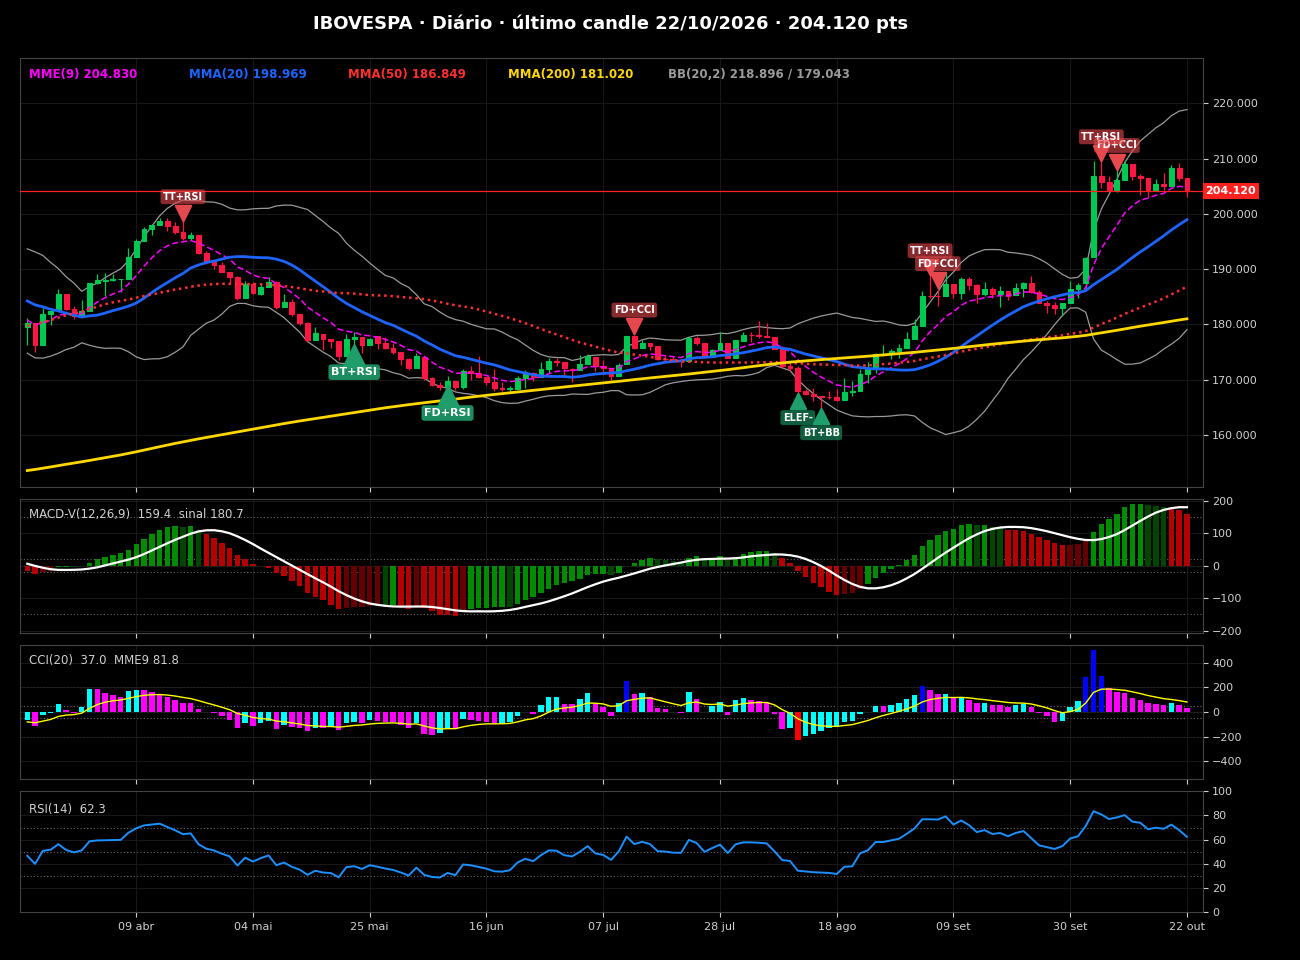
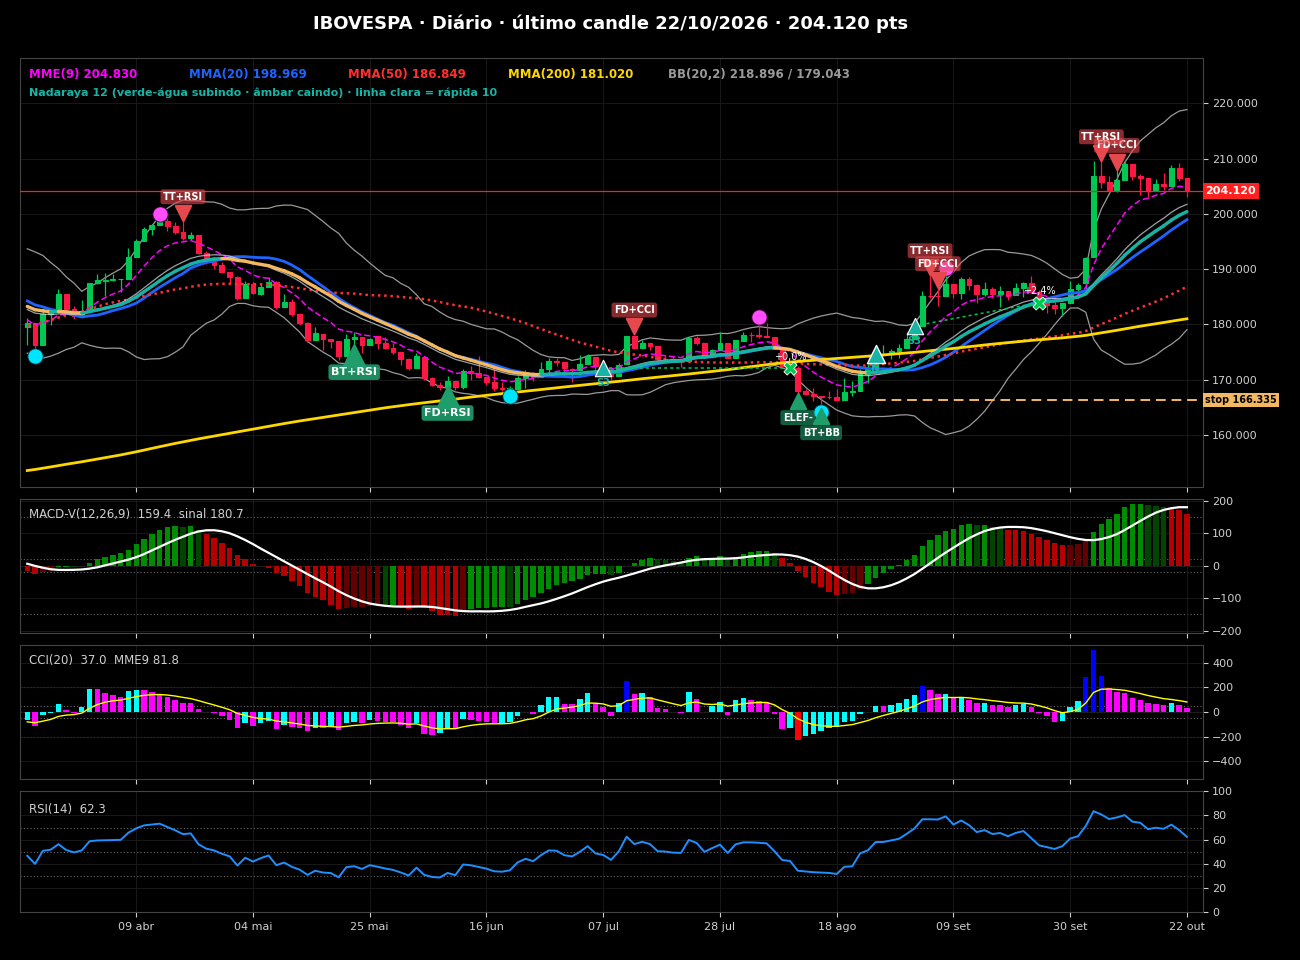
🤖 Auto: Sinal 22/10/2026 19:48

diff --git a/content/diario/2026-10-22.md b/content/diario/2026-10-22.md
@@ -11,6 +11,34 @@ tags: [diario]
 >
 > *Leitura educacional baseada em 26 anos de dados. Não é recomendação de investimento.*
 
+> [!tip] 🎯 Entradas do método — 🧪 em teste ao vivo desde 23/10/2026 (só compra)
+>
+> **Placar ao vivo:** nenhuma operação encerrada desde 23/10/2026. Este é o único resultado sem nenhum ajuste ao histórico.
+>
+> | Regra | Situação | Detalhes | Nota |
+> |---|---|---|---|
+> | [Diário · Nadaraya](tecnico/#diário) | 🟢 **comprado** desde 25/08 a 174.577 *(simulada: começou antes do teste ao vivo)* | stop 166.335 · agora +16,9% em 40 pregões · sai quando a linha rápida do Nadaraya cruzar para baixo · setup BT+BB (moderado) | ✅ passou fora da amostra |
+> | [Semanal · Semáforo N2](tecnico/#semanal) | — sem setup | espera um sinal de fundo | ✅ o ganho vem do setup |
+> | [H4 · Semáforo N2](sinais-topo-fundo/todos-os-sinais#h4) | — sem setup | espera um sinal de fundo | 🧪 em teste |
+> | [Diário · Semáforo N3 após ζ Fundo](tecnico/#diário) | — sem setup | espera um sinal de fundo ou ζ Fundo ≥ 60% | 🧪 em observação |
+>
+> **Últimas operações** (as anteriores ao teste ao vivo são simuladas no histórico)
+>
+> | Regra | Entrada | Saída | Resultado | Motivo |
+> |---|---|---|---|---|
+> | H4 · Semáforo N2 | 01/10/26 14h a 187.243 | 20/10/26 10h a 208.658 | **+11,4%** | saída do método (topo fixo do semáforo nível 3) |
+> | H4 · Semáforo N2 | 21/09/26 14h a 186.753 | 25/09/26 10h a 183.242 | **-1,9%** | stop |
+> | Diário · Semáforo N3 após ζ Fundo | 01/09/26 a 179.723 | 24/09/26 a 183.966 | **+2,4%** | saída do método (topo fixo do semáforo nível 3) |
+> | H4 · Semáforo N2 | 19/08/26 10h a 168.034 | 16/09/26 10h a 185.896 | **+10,6%** | saída do método (topo fixo do semáforo nível 3) |
+> | Diário · Semáforo N3 após ζ Fundo | 07/07/26 a 172.021 | 10/08/26 a 172.021 | **+0,0%** | stop no preço de entrada |
+> | H4 · Semáforo N2 | 12/06/26 14h a 171.134 | 15/06/26 14h a 171.134 | **+0,0%** | stop no preço de entrada |
+> | H4 · Semáforo N2 | 05/05/26 10h a 186.583 | 07/05/26 10h a 186.583 | **+0,0%** | stop no preço de entrada |
+> | H4 · Semáforo N2 | 25/03/26 10h a 185.486 | 23/04/26 10h a 192.517 | **+3,8%** | saída do método (topo fixo do semáforo nível 3) |
+>
+> <small>Atualizado 22/10 19:48. Nota: ✅ passou no teste fora da amostra (walk-forward 2008–2026) · 🧪 em teste ou em observação, sem aviso no Telegram · 🧪 na tabela = operação do teste ao vivo.</small>
+>
+> *Regras: depois de um sinal de fundo, o Diário entra quando o Nadaraya vira para cima; o Semanal e o H4 entram quando um fundo do semáforo fica fixo. Stop e saída de cada regra na [metodologia](metodologia#entradas-do-método). Nenhuma regra de venda passou no teste. Os números do histórico têm viés de escolha (overfitting); o placar ao vivo é o que vale. Leitura educacional do método, não recomendação.*
+
 > [!warning] 🔥 Sinais de Topo e Fundo · Mensal, Semanal — sinal forte em formação (confirma no fechamento do candle mensal, semanal)
 > - 🔴 Mensal · TOPO · **[RSI75+MV](tecnico/#mensal)** — RSI≥75 e MACD-V≥130 · 📈 [ver no gráfico Mensal](tecnico/#mensal)
 > - 🔴 Semanal · TOPO · **[FD+CCI](tecnico/#semanal)** — Fechou fora→dentro da BB superior + CCI≥200 · 📈 [ver no gráfico Semanal](tecnico/#semanal)
@@ -117,7 +145,7 @@ tags: [diario]
 
 ![Monitor multi-ativo](../graficos/multi_diario.png)
 
-*Página atualizada em 22/10/2026 19:12 BRT (leitura da barra de 2026-10-22 BRT).*
+*Página atualizada em 22/10/2026 19:48 BRT (leitura da barra de 2026-10-22 BRT).*
 
 > [!info]- Como interpretar (clique para expandir)
 > - **ζ Topo**: fração dos coeficientes wavelet (Chapéu Mexicano, Caetano & Yoneyama 2009) acima de +0,8σ na faixa mais recente. Na ponta da série isso acontece quando o preço termina **esticado acima da tendência** em muitas escalas — euforia/topo. ζ=0,90 é o limiar de Caetano: quedas que partiram desse padrão foram mais fundas. **É risco de reversão, não data do crash.**

diff --git a/content/metodologia.md b/content/metodologia.md
@@ -190,3 +190,35 @@ As zonas têm **histerese** (entram num nível e saem em outro mais baixo) para 
 
 > [!quote] Aviso
 > Estudo acadêmico e estatístico. Não constitui recomendação de investimento. Resultados passados não garantem resultados futuros.
+
+<!-- v9-entradas -->
+## Entradas do método
+
+> [!warning] Em teste ao vivo desde 23/10/2026
+> Estas regras foram escolhidas olhando o histórico — e quem testa muitas regras sempre acha algumas que deram certo por acaso (**overfitting de backtest** / viés de escolha). Por isso: (1) os números abaixo são os de um teste **fora da amostra**, não os do backtest escolhido; (2) a partir de 23/10/2026 as regras ficam congeladas e o site mostra um **placar ao vivo** separado — esse é o único resultado limpo.
+
+Depois de um **setup**, o método espera uma confirmação antes de comprar. **Só compra:** nenhuma regra de venda passou.
+
+| Regra | Setup | Entrada (no fechamento) | Stop | Saída |
+|---|---|---|---|---|
+| **Diário · Nadaraya** ✅ | sinal de fundo forte/moderado nos últimos 10 pregões | o kernel Nadaraya-Watson (Rational Quadratic, lookback 12) vira para cima | menor mínima dos últimos 5 pregões | a linha rápida (lookback 10) cruza para baixo |
+| **Semanal · Semáforo N2** ✅ | sinal de fundo nas últimas 10 semanas | um fundo do semáforo nível 2 (13/8/5) fica fixo: 5 candles sem mínima menor | mínima do fundo; vai para o preço de entrada quando ganha o que arrisca | um topo do semáforo nível 3 (34/21/12) fica fixo |
+| **H4 · Semáforo N2** 🧪 *(em teste, sem aviso)* | sinal de fundo nos últimos 10 candles de 4h | igual ao semanal | igual | igual |
+| **Diário · Semáforo N3 após ζ** 🧪 *(em observação, sem aviso)* | ζ Fundo ≥ 60% nos últimos 10 pregões | um fundo do semáforo nível 3 fica fixo (12 candles) | igual | igual |
+
+Todas: no máximo 60 candles por operação; reentrada permitida dentro da janela do setup. O semáforo é calculado como no MT5, mas só conta o ponto **fixo** (o indicador original repinta). O Nadaraya é o kernel sem repintura (o envelope padrão usa candles futuros e, sem repintura, não funcionou).
+
+### Como as regras foram testadas
+
+1. **Mais de 150 regras** testadas no Ibovespa 2000–2026: rompimento de máxima/mínima, os três níveis do semáforo e o Nadaraya-Watson (envelope e kernel), com várias entradas e saídas.
+2. **Walk-forward (fora da amostra):** a cada ano de 2008 em diante, a melhor regra foi escolhida **só com os anos anteriores** e operada no ano seguinte. Isso mede se "escolher a melhor pelo passado" funciona de verdade.
+3. **PBO (probabilidade de overfitting do backtest):** o histórico foi dividido em 10 blocos e, em 252 combinações, a melhor regra de uma metade foi conferida na outra.
+
+| Tempo e lado | Escolhendo pelo passado (fora da amostra) | Regra escolhida ao acaso | PBO | Leitura |
+|---|---|---|---|---|
+| Diário · compra | **+2,0% a +3,5%** por operação | +0,4% | **6%** | a escolha se sustenta ✅ |
+| Semanal · compra | +6% a +10% | **+4,7%** | 33% | funciona, mas quase qualquer regra serve: o ganho vem do setup |
+| Diário · venda | +0,5% (faixa inclui perda) | −0,2% | **73%** | overfitting ❌ |
+| Semanal · venda | −2,5% | −0,3% | 31% | não funciona ❌ |
+
+*O backtest das regras escolhidas mostrava +3,2% (diário) e +15,8% (semanal) por operação; fora da amostra a expectativa realista é de **+2% a +3%** no diário e **~+5%** no semanal, com poucas operações por ano. O H4 tem só 2 anos de dados e não pôde ser testado fora da amostra. A lista de quais sinais são fortes ou moderados também saiu destes dados — mais uma razão para acompanhar o placar ao vivo. Custo de 0,05% por operação, índice à vista, sem impostos (no WIN o comprado paga o carrego dos juros). Estatística histórica, não recomendação.*

diff --git a/content/index.md b/content/index.md
@@ -6,7 +6,7 @@ tags: [home]
 
 **As ondas do mercado, explicadas.** Leitura do Ibovespa com estatística de 26 anos, baseada no trabalho de pesquisadores e traders reconhecidos e adaptada por Jarbas Daniel da Costa.
 
-*Última atualização: 22/10/2026 19:12 BRT · Diário D1*
+*Última atualização: 22/10/2026 19:48 BRT · Diário D1*
 
 > [!warning] Onde o mercado está no fechamento de 22/10: **🟡 Esticado para cima**
 > `Pânico ◀──────────────────●──▶ Euforia`
@@ -14,6 +14,34 @@ tags: [home]
 > O Ibovespa subiu mais rápido que o normal e está acima da sua faixa habitual.
 >
 > *Leitura educacional baseada em 26 anos de dados. Não é recomendação de investimento.*
+
+> [!tip] 🎯 Entradas do método — 🧪 em teste ao vivo desde 23/10/2026 (só compra)
+>
+> **Placar ao vivo:** nenhuma operação encerrada desde 23/10/2026. Este é o único resultado sem nenhum ajuste ao histórico.
+>
+> | Regra | Situação | Detalhes | Nota |
+> |---|---|---|---|
+> | [Diário · Nadaraya](tecnico/#diário) | 🟢 **comprado** desde 25/08 a 174.577 *(simulada: começou antes do teste ao vivo)* | stop 166.335 · agora +16,9% em 40 pregões · sai quando a linha rápida do Nadaraya cruzar para baixo · setup BT+BB (moderado) | ✅ passou fora da amostra |
+> | [Semanal · Semáforo N2](tecnico/#semanal) | — sem setup | espera um sinal de fundo | ✅ o ganho vem do setup |
+> | [H4 · Semáforo N2](sinais-topo-fundo/todos-os-sinais#h4) | — sem setup | espera um sinal de fundo | 🧪 em teste |
+> | [Diário · Semáforo N3 após ζ Fundo](tecnico/#diário) | — sem setup | espera um sinal de fundo ou ζ Fundo ≥ 60% | 🧪 em observação |
+>
+> **Últimas operações** (as anteriores ao teste ao vivo são simuladas no histórico)
+>
+> | Regra | Entrada | Saída | Resultado | Motivo |
+> |---|---|---|---|---|
+> | H4 · Semáforo N2 | 01/10/26 14h a 187.243 | 20/10/26 10h a 208.658 | **+11,4%** | saída do método (topo fixo do semáforo nível 3) |
+> | H4 · Semáforo N2 | 21/09/26 14h a 186.753 | 25/09/26 10h a 183.242 | **-1,9%** | stop |
+> | Diário · Semáforo N3 após ζ Fundo | 01/09/26 a 179.723 | 24/09/26 a 183.966 | **+2,4%** | saída do método (topo fixo do semáforo nível 3) |
+> | H4 · Semáforo N2 | 19/08/26 10h a 168.034 | 16/09/26 10h a 185.896 | **+10,6%** | saída do método (topo fixo do semáforo nível 3) |
+> | Diário · Semáforo N3 após ζ Fundo | 07/07/26 a 172.021 | 10/08/26 a 172.021 | **+0,0%** | stop no preço de entrada |
+> | H4 · Semáforo N2 | 12/06/26 14h a 171.134 | 15/06/26 14h a 171.134 | **+0,0%** | stop no preço de entrada |
+> | H4 · Semáforo N2 | 05/05/26 10h a 186.583 | 07/05/26 10h a 186.583 | **+0,0%** | stop no preço de entrada |
+> | H4 · Semáforo N2 | 25/03/26 10h a 185.486 | 23/04/26 10h a 192.517 | **+3,8%** | saída do método (topo fixo do semáforo nível 3) |
+>
+> <small>Atualizado 22/10 19:48. Nota: ✅ passou no teste fora da amostra (walk-forward 2008–2026) · 🧪 em teste ou em observação, sem aviso no Telegram · 🧪 na tabela = operação do teste ao vivo.</small>
+>
+> *Regras: depois de um sinal de fundo, o Diário entra quando o Nadaraya vira para cima; o Semanal e o H4 entram quando um fundo do semáforo fica fixo. Stop e saída de cada regra na [metodologia](metodologia#entradas-do-método). Nenhuma regra de venda passou no teste. Os números do histórico têm viés de escolha (overfitting); o placar ao vivo é o que vale. Leitura educacional do método, não recomendação.*
 
 > [!warning] 🔥 Sinais de Topo e Fundo · Mensal, Semanal — sinal forte em formação (confirma no fechamento do candle mensal, semanal)
 > - 🔴 Mensal · TOPO · **[RSI75+MV](tecnico/#mensal)** — RSI≥75 e MACD-V≥130 · 📈 [ver no gráfico Mensal](tecnico/#mensal)

diff --git a/content/intraday/2026-10-22.md b/content/intraday/2026-10-22.md
@@ -12,6 +12,34 @@ tags: [intraday]
 >
 > *Leitura educacional baseada em 26 anos de dados. Não é recomendação de investimento.*
 
+> [!tip] 🎯 Entradas do método — 🧪 em teste ao vivo desde 23/10/2026 (só compra)
+>
+> **Placar ao vivo:** nenhuma operação encerrada desde 23/10/2026. Este é o único resultado sem nenhum ajuste ao histórico.
+>
+> | Regra | Situação | Detalhes | Nota |
+> |---|---|---|---|
+> | [Diário · Nadaraya](tecnico/#diário) | 🟢 **comprado** desde 25/08 a 174.577 *(simulada: começou antes do teste ao vivo)* | stop 166.335 · agora +16,9% em 40 pregões · sai quando a linha rápida do Nadaraya cruzar para baixo · setup BT+BB (moderado) | ✅ passou fora da amostra |
+> | [Semanal · Semáforo N2](tecnico/#semanal) | — sem setup | espera um sinal de fundo | ✅ o ganho vem do setup |
+> | [H4 · Semáforo N2](sinais-topo-fundo/todos-os-sinais#h4) | — sem setup | espera um sinal de fundo | 🧪 em teste |
+> | [Diário · Semáforo N3 após ζ Fundo](tecnico/#diário) | — sem setup | espera um sinal de fundo ou ζ Fundo ≥ 60% | 🧪 em observação |
+>
+> **Últimas operações** (as anteriores ao teste ao vivo são simuladas no histórico)
+>
+> | Regra | Entrada | Saída | Resultado | Motivo |
+> |---|---|---|---|---|
+> | H4 · Semáforo N2 | 01/10/26 14h a 187.243 | 20/10/26 10h a 208.658 | **+11,4%** | saída do método (topo fixo do semáforo nível 3) |
+> | H4 · Semáforo N2 | 21/09/26 14h a 186.753 | 25/09/26 10h a 183.242 | **-1,9%** | stop |
+> | Diário · Semáforo N3 após ζ Fundo | 01/09/26 a 179.723 | 24/09/26 a 183.966 | **+2,4%** | saída do método (topo fixo do semáforo nível 3) |
+> | H4 · Semáforo N2 | 19/08/26 10h a 168.034 | 16/09/26 10h a 185.896 | **+10,6%** | saída do método (topo fixo do semáforo nível 3) |
+> | Diário · Semáforo N3 após ζ Fundo | 07/07/26 a 172.021 | 10/08/26 a 172.021 | **+0,0%** | stop no preço de entrada |
+> | H4 · Semáforo N2 | 12/06/26 14h a 171.134 | 15/06/26 14h a 171.134 | **+0,0%** | stop no preço de entrada |
+> | H4 · Semáforo N2 | 05/05/26 10h a 186.583 | 07/05/26 10h a 186.583 | **+0,0%** | stop no preço de entrada |
+> | H4 · Semáforo N2 | 25/03/26 10h a 185.486 | 23/04/26 10h a 192.517 | **+3,8%** | saída do método (topo fixo do semáforo nível 3) |
+>
+> <small>Atualizado 22/10 19:48. Nota: ✅ passou no teste fora da amostra (walk-forward 2008–2026) · 🧪 em teste ou em observação, sem aviso no Telegram · 🧪 na tabela = operação do teste ao vivo.</small>
+>
+> *Regras: depois de um sinal de fundo, o Diário entra quando o Nadaraya vira para cima; o Semanal e o H4 entram quando um fundo do semáforo fica fixo. Stop e saída de cada regra na [metodologia](metodologia#entradas-do-método). Nenhuma regra de venda passou no teste. Os números do histórico têm viés de escolha (overfitting); o placar ao vivo é o que vale. Leitura educacional do método, não recomendação.*
+
 
 
 > [!success] Sinal de Crise · Intraday 15 min (22/10 17:15): 🟢 **VERDE** — Risco 0% · ▼ -5 p.p. vs leitura anterior
@@ -111,7 +139,7 @@ tags: [intraday]
 
 ![Monitor multi-ativo](../graficos/multi_intraday.png)
 
-*Página atualizada em 22/10/2026 19:12 BRT (leitura da barra de 2026-10-22 17:15 BRT).*
+*Página atualizada em 22/10/2026 19:48 BRT (leitura da barra de 2026-10-22 17:15 BRT).*
 
 > [!info]- Como interpretar (clique para expandir)
 > - **ζ Topo**: fração dos coeficientes wavelet (Chapéu Mexicano, Caetano & Yoneyama 2009) acima de +0,8σ na faixa mais recente. Na ponta da série isso acontece quando o preço termina **esticado acima da tendência** em muitas escalas — euforia/topo. ζ=0,90 é o limiar de Caetano: quedas que partiram desse padrão foram mais fundas. **É risco de reversão, não data do crash.**

diff --git a/content/tecnico/index.md b/content/tecnico/index.md
@@ -65,6 +65,19 @@ Ibovespa com **MME(9)**, **MMA(20)**, **MMA(50)**, **MMA(200)** e **Bollinger(20
 | 21/11/2025 | 🔴 Topo | **FD+CCI** — Fechou fora→dentro da BB superior + CCI≥200 | 🔥 **forte** | 68% |
 | 21/11/2025 | 🔴 Topo | **S180+BB** — Bear 180 depois de tocar a BB superior | moderado | 44% |
 
+**Entradas do método neste gráfico** (▲ = compra · ✖ = saída · tracejado âmbar = stop da compra em andamento · ● = fundo/topo fixo do semáforo) — [regras](metodologia#entradas-do-método)
+
+- **Semáforo N2** (✅ o ganho vem do setup): sem setup ativo
+
+*Operações anteriores a 23/10/2026 são simuladas no histórico (as regras estão em teste ao vivo desde então).*
+
+| Regra | Entrada | Saída | Resultado | Motivo |
+|---|---|---|---|---|
+| Semáforo N2 | 21/02/25 a 127,128 | 17/04/26 a 195,734 | **+54,0%** | limite de 60 candles |
+| Semáforo N2 | 26/07/24 a 127,492 | 08/11/24 a 127,492 | **+0,0%** | stop no preço de entrada |
+| Semáforo N2 | 24/05/24 a 124,306 | 31/05/24 a 123,397 | **-0,7%** | stop |
+| Semáforo N2 | 10/11/23 a 120,636 | 22/03/24 a 127,027 | **+5,3%** | saída do método (topo fixo do semáforo nível 3) |
+
 ## Diário
 
 ![Ibovespa Diário](graficos/tecnico_diario_20261022.png)
@@ -93,6 +106,22 @@ Ibovespa com **MME(9)**, **MMA(20)**, **MMA(50)**, **MMA(200)** e **Bollinger(20
 | 13/07/2026 | 🔴 Topo | **FD+CCI** — Fechou fora→dentro da BB superior + CCI≥200 | moderado | 40% |
 | 09/06/2026 | 🟢 Fundo | **FD+RSI** — Fechou fora→dentro da BB inferior + RSI≤30 | 🔥 **forte** | 71% |
 
+**Entradas do método neste gráfico** (▲ = compra · ✖ = saída · tracejado âmbar = stop da compra em andamento · linha verde-água/âmbar = Nadaraya 12 · ● = fundo/topo fixo do semáforo) — [regras](metodologia#entradas-do-método)
+
+- **Nadaraya** (✅ passou fora da amostra): 🟢 comprado desde 25/08 a 174.577, stop 166.335, agora +16,9%
+- **Semáforo N3 após ζ Fundo** (🧪 em observação): sem setup ativo
+
+*Operações anteriores a 23/10/2026 são simuladas no histórico (as regras estão em teste ao vivo desde então).*
+
+| Regra | Entrada | Saída | Resultado | Motivo |
+|---|---|---|---|---|
+| Semáforo N3 após ζ Fundo | 01/09/26 a 179,723 | 24/09/26 a 183,966 | **+2,4%** | saída do método (topo fixo do semáforo nível 3) |
+| Semáforo N3 após ζ Fundo | 07/07/26 a 172,021 | 10/08/26 a 172,021 | **+0,0%** | stop no preço de entrada |
+| Nadaraya | 20/10/25 a 144,509 | 19/01/26 a 164,849 | **+14,1%** | limite de 60 candles |
+| Nadaraya | 12/06/25 a 137,800 | 15/07/25 a 135,250 | **-1,9%** | saída do método (linha rápida cruzou para baixo) |
+| Nadaraya | 14/04/25 a 129,454 | 09/06/25 a 135,699 | **+4,8%** | saída do método (linha rápida cruzou para baixo) |
+| Semáforo N3 após ζ Fundo | 30/01/25 a 126,913 | 07/03/25 a 125,035 | **-1,5%** | saída do método (topo fixo do semáforo nível 3) |
+
 <small>Direção = valor de hoje comparado com o do candle anterior (no semanal e no mensal, com o candle em formação). MACD-V: 🟩 verde subindo · 🟢 verde sem brilho · 🔴 vermelho sem brilho · 🟥 vermelho caindo. CCI: aqua subindo · magenta caindo · azul ≥ +200 · vermelho ≤ −200 · linha amarela = MME9 do CCI.</small>
 
-*Atualizado em 22/10/2026 19:12 BRT. Dados: Yahoo (^BVSP); semanal e mensal montados do diário.*
+*Atualizado em 22/10/2026 19:48 BRT. Dados: Yahoo (^BVSP); semanal e mensal montados do diário.*
